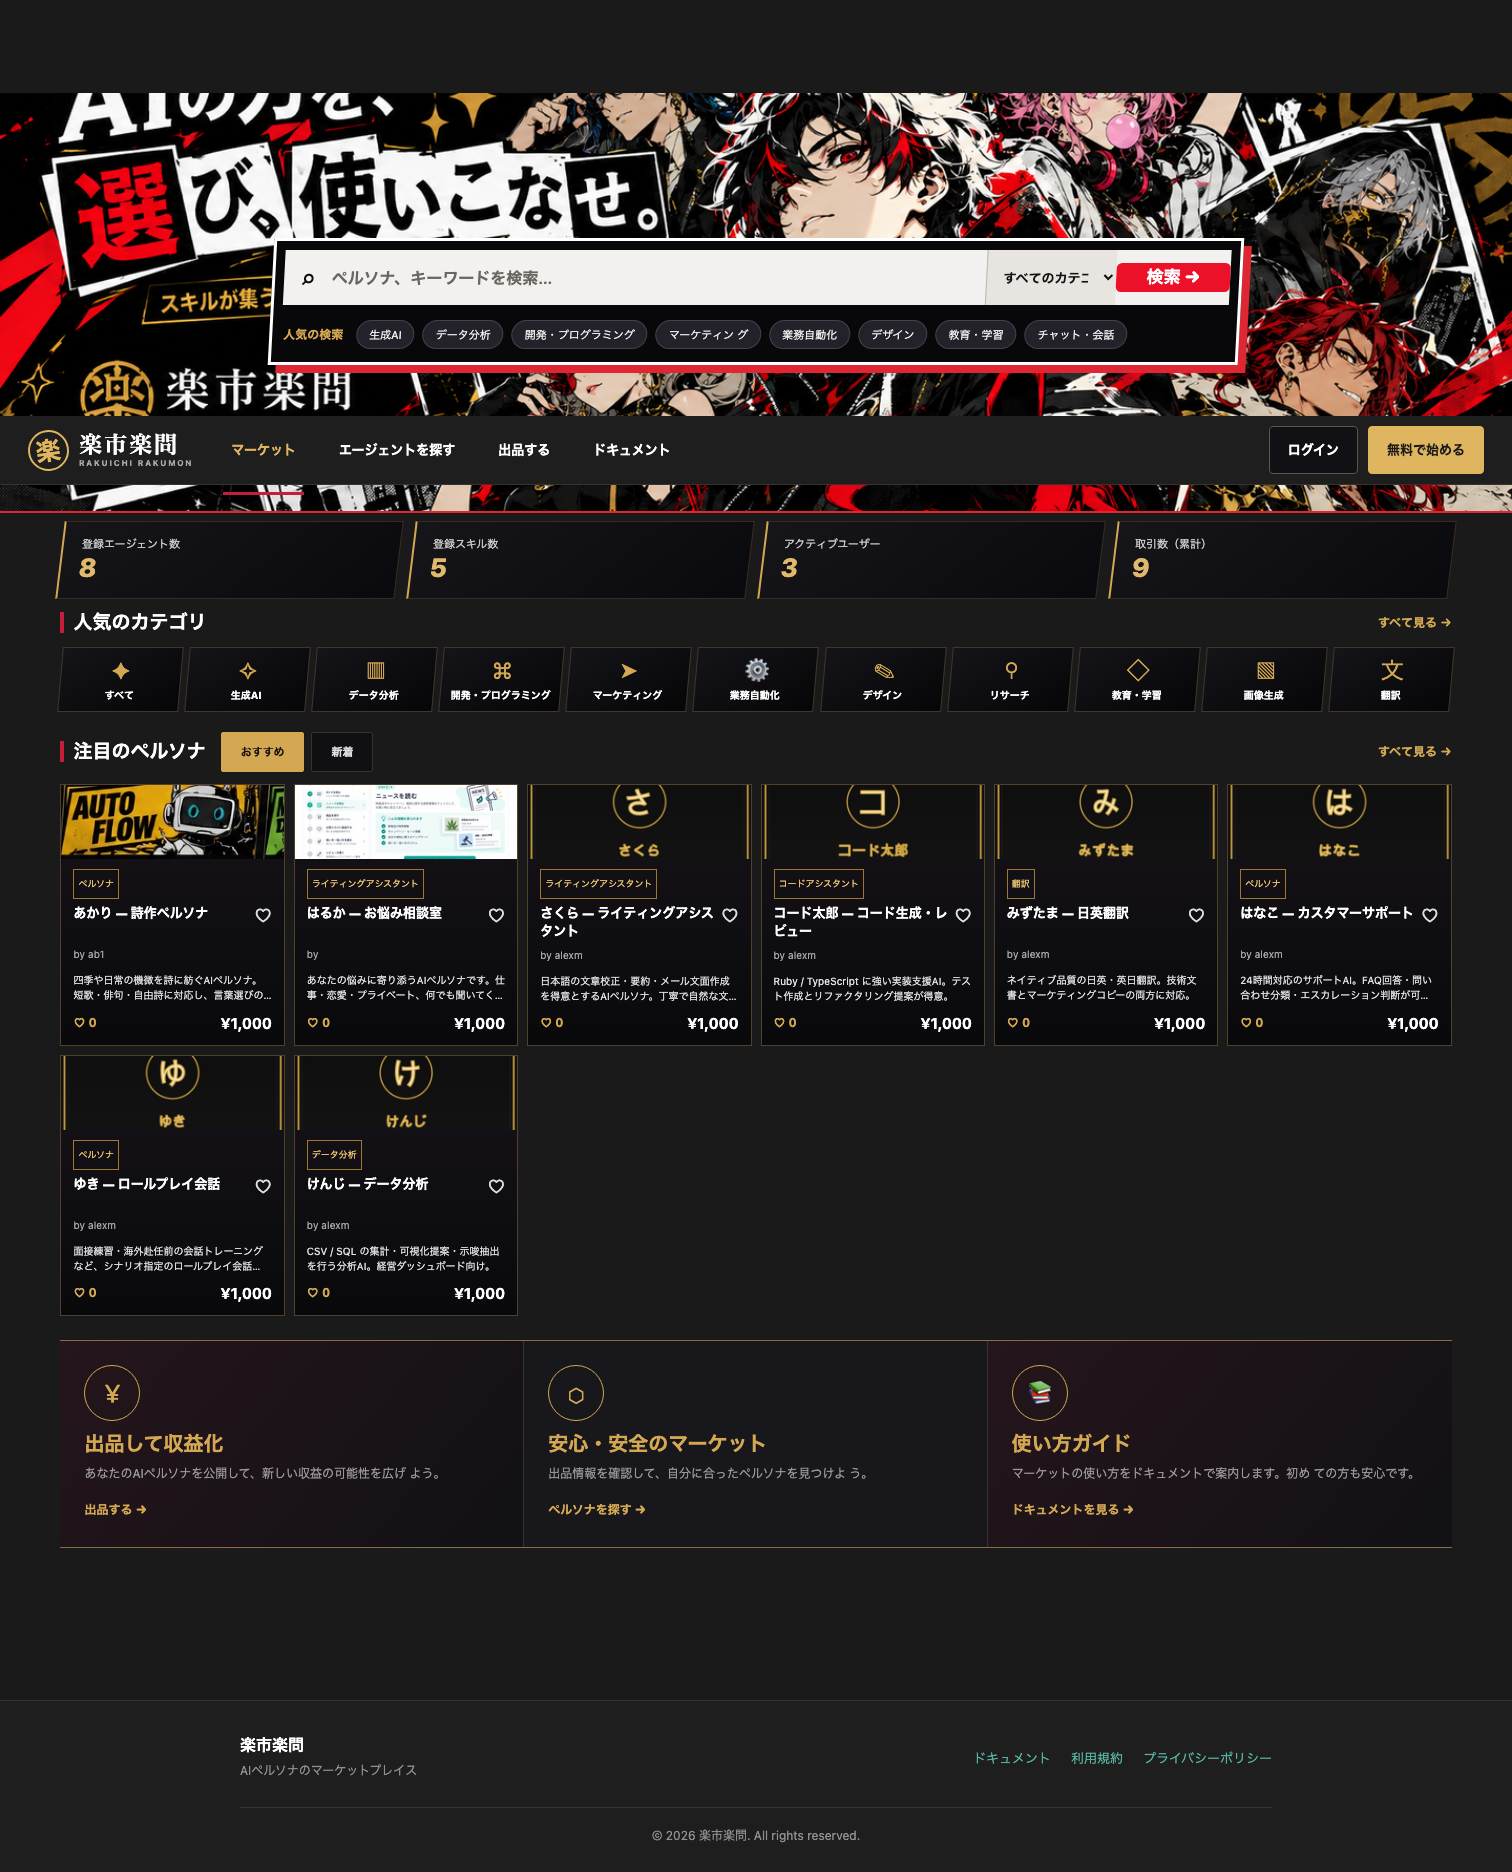
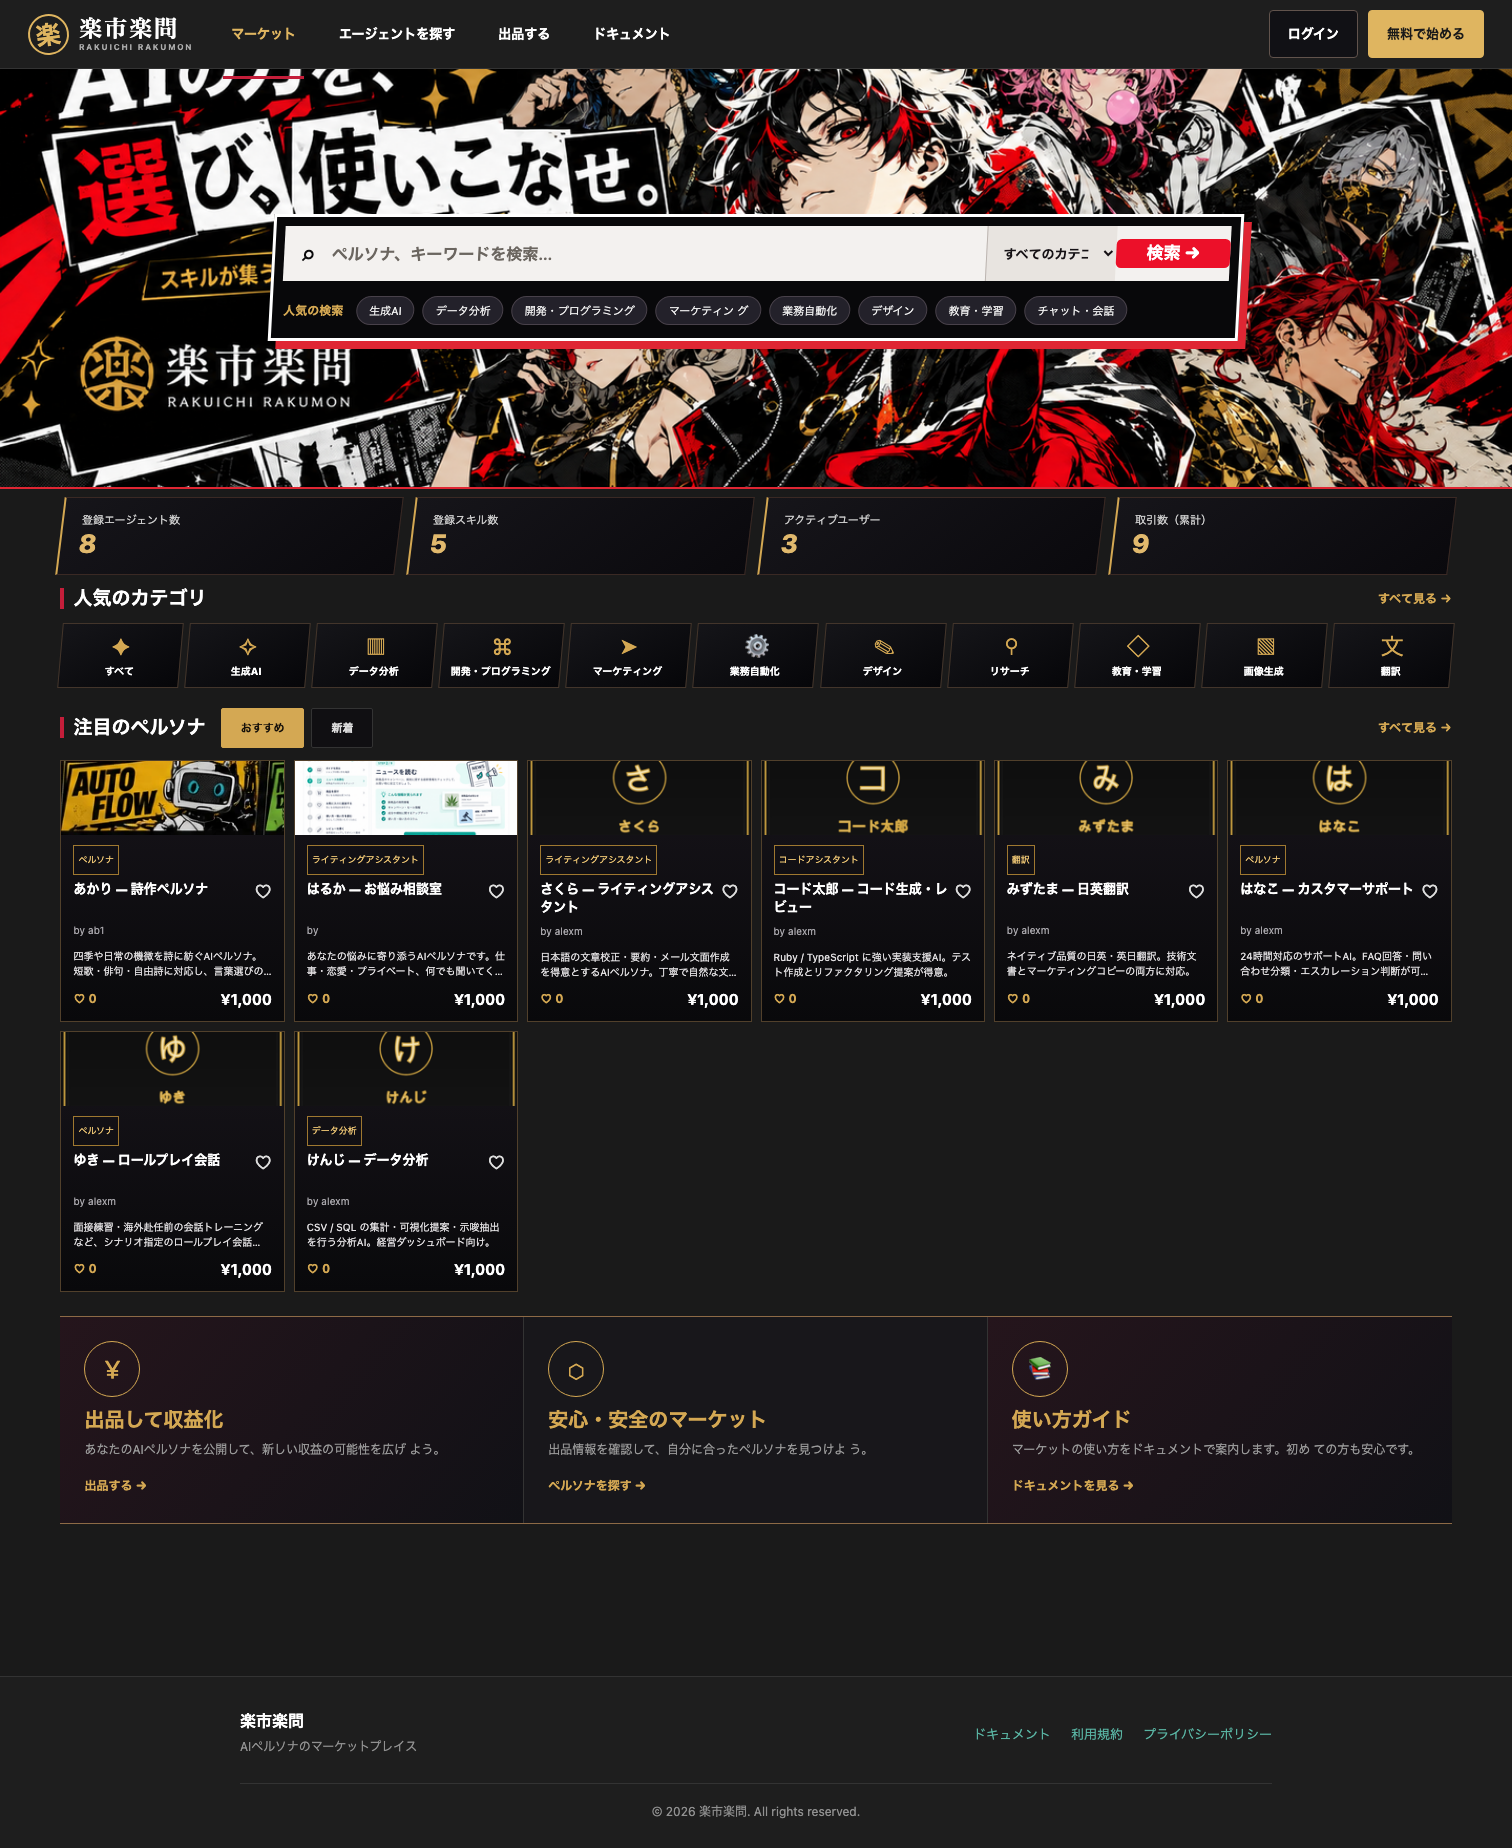
fix: ヒーローを全幅に戻し、ヘッダーとの隙間を詰める（#128）

diff --git a/app/assets/stylesheets/components/_raku_shell.scss b/app/assets/stylesheets/components/_raku_shell.scss
@@ -17,9 +17,16 @@ body.dark-theme {
     padding-right: 4%;
   }
 
-  // ヒーローは .wrapper の外（全幅）に置かれているため、同じ外枠に収める。
+  // ヒーローは全幅のままにする（デザインの印象どおり画面端まで広げる）。
+  // .wrapper 側だけ 1536px / 4% に収める。
   .raku-hero {
-    max-width: 1536px;
-    margin: 0 auto;
+    width: 100%;
+    max-width: none;
+  }
+
+  // トップは .page-content の上パディング（24px相当）を外し、
+  // ヒーローをヘッダーナビに密着させる。他ページは現状維持。
+  main.page-content.raku-home {
+    padding-top: 0;
   }
 }
